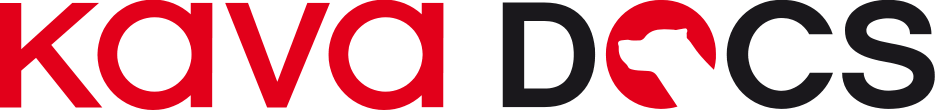
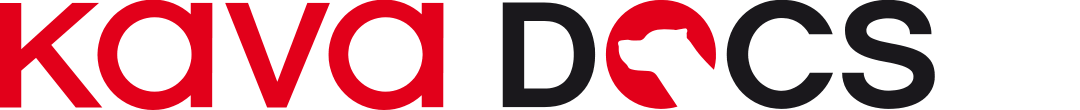
More art and some style updates

diff --git a/Docs/_meta/kavadocs.css b/Docs/_meta/kavadocs.css
@@ -1,5 +1,33 @@
+@media only screen and (max-width: 1024px) {
+    .header {
+        height: 50px !important;
+    }
+    
+    .header .logo {
+        margin: 5px 0 0 10px !important;
+        max-height: 40px !important;
+    }
+}
+
 .header {
-    background-color: rgb(43, 46, 52);
+    background-color: #1A181C;
+    height: 140px;
+}
+
+    .header .logo {
+        margin: 30px 0 0 10px;
+    }
+
+.sidebar {
+    top: 160px;
+}
+
+.toc {
+    top: 140px;
+}
+
+.content-container {
+    padding-top: 140px;
 }
 
 .content-container h1 {
